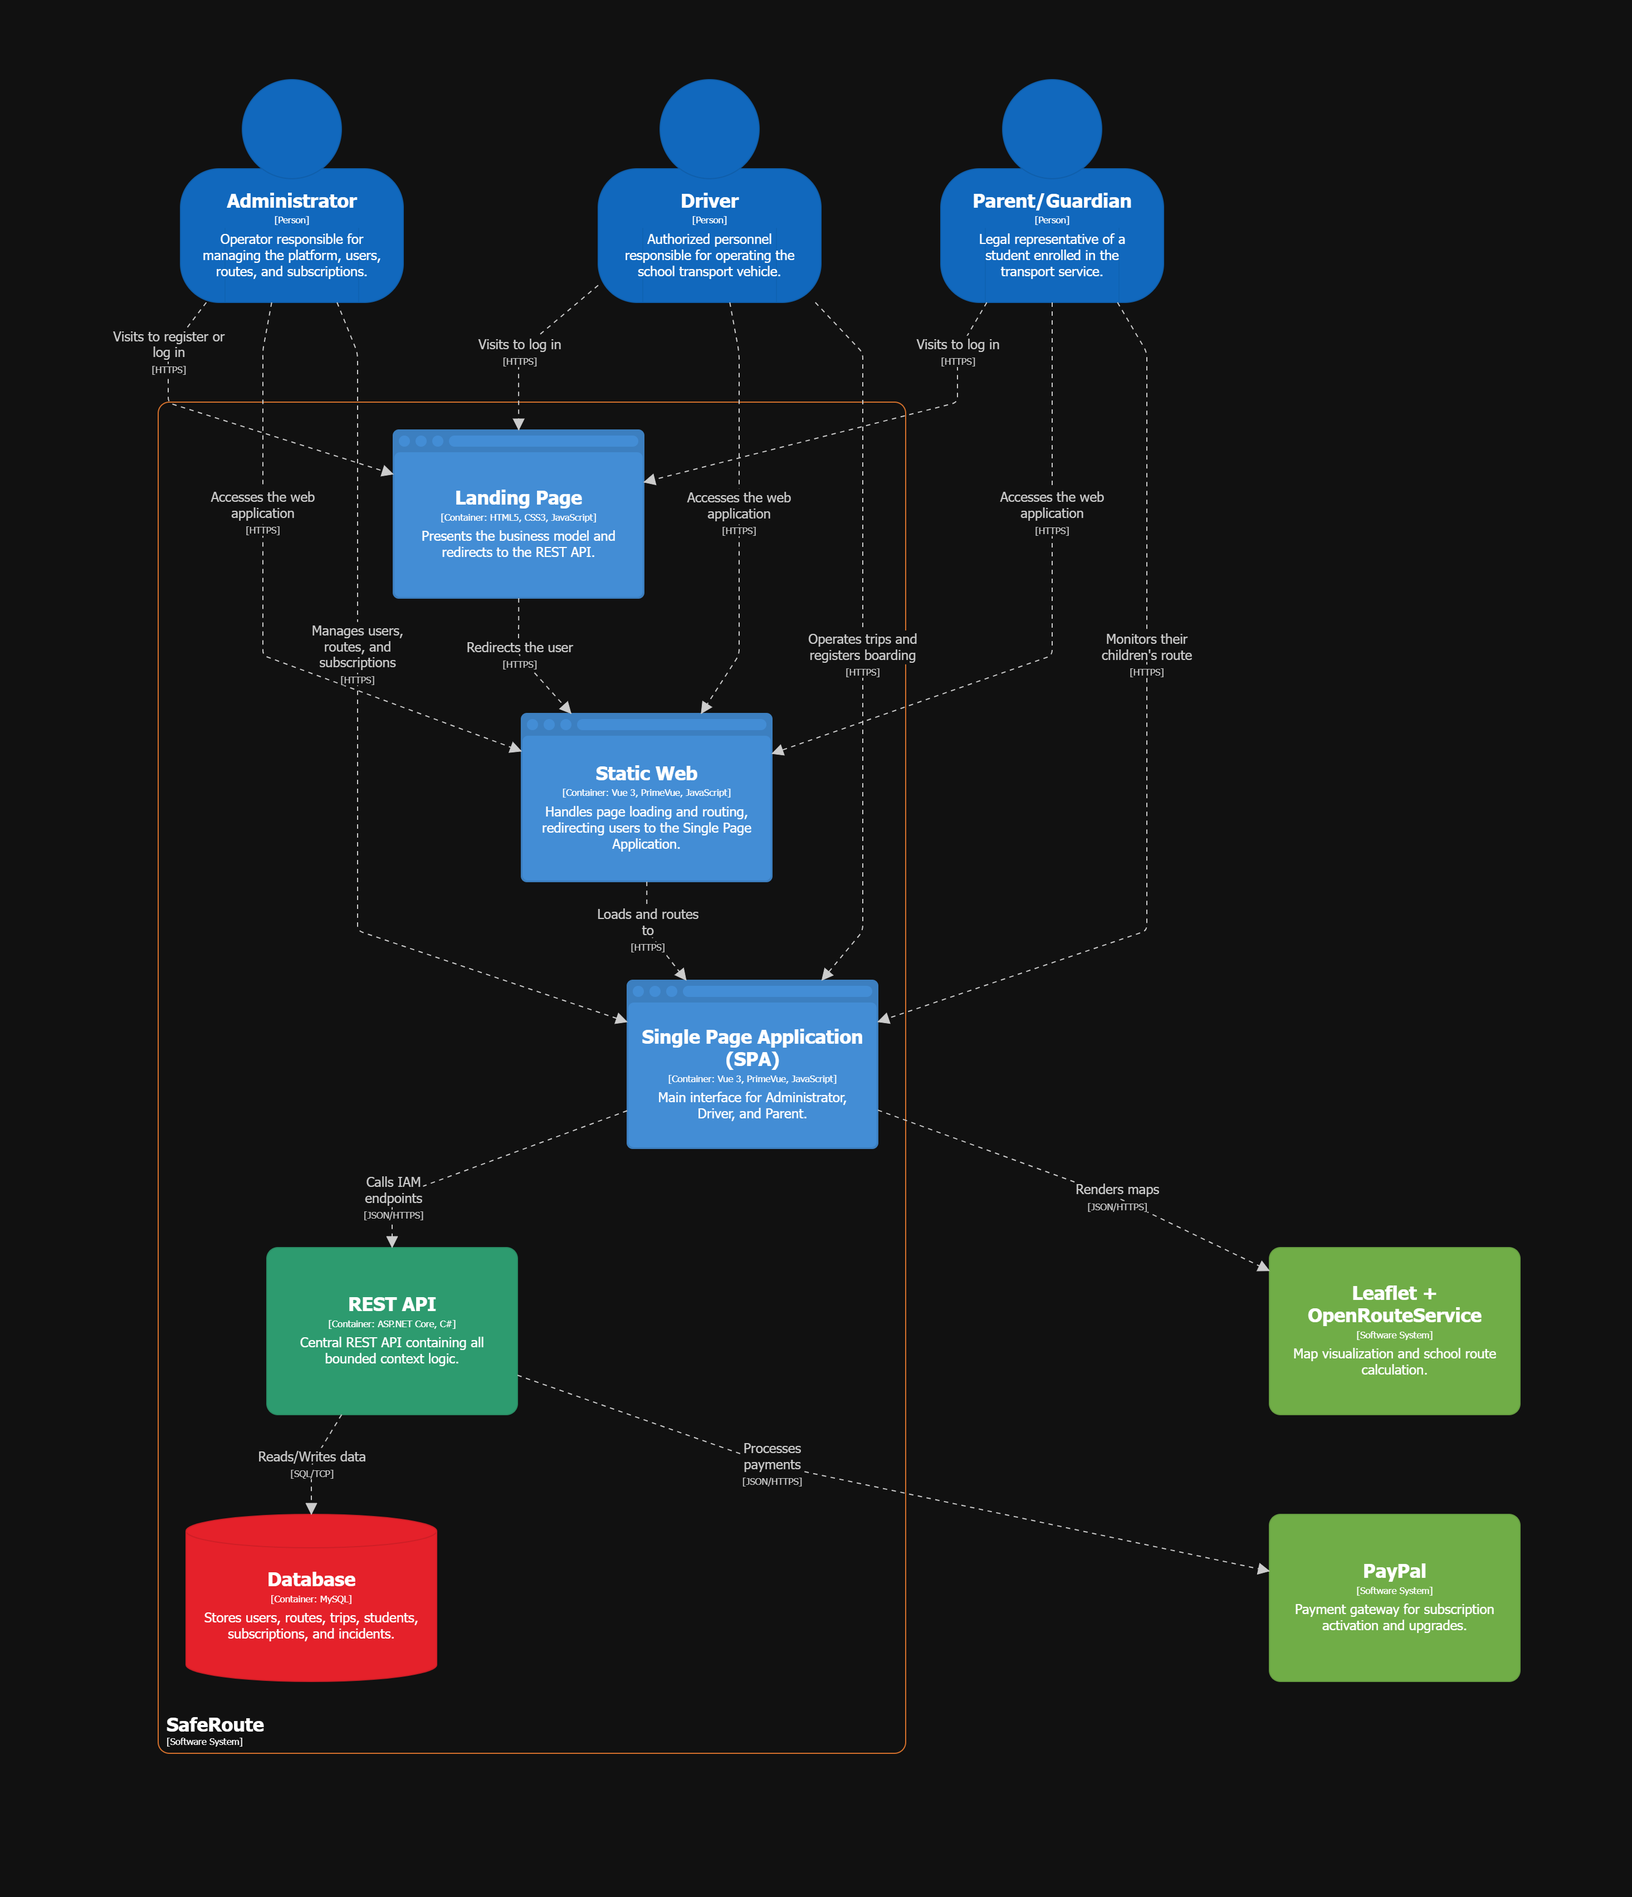
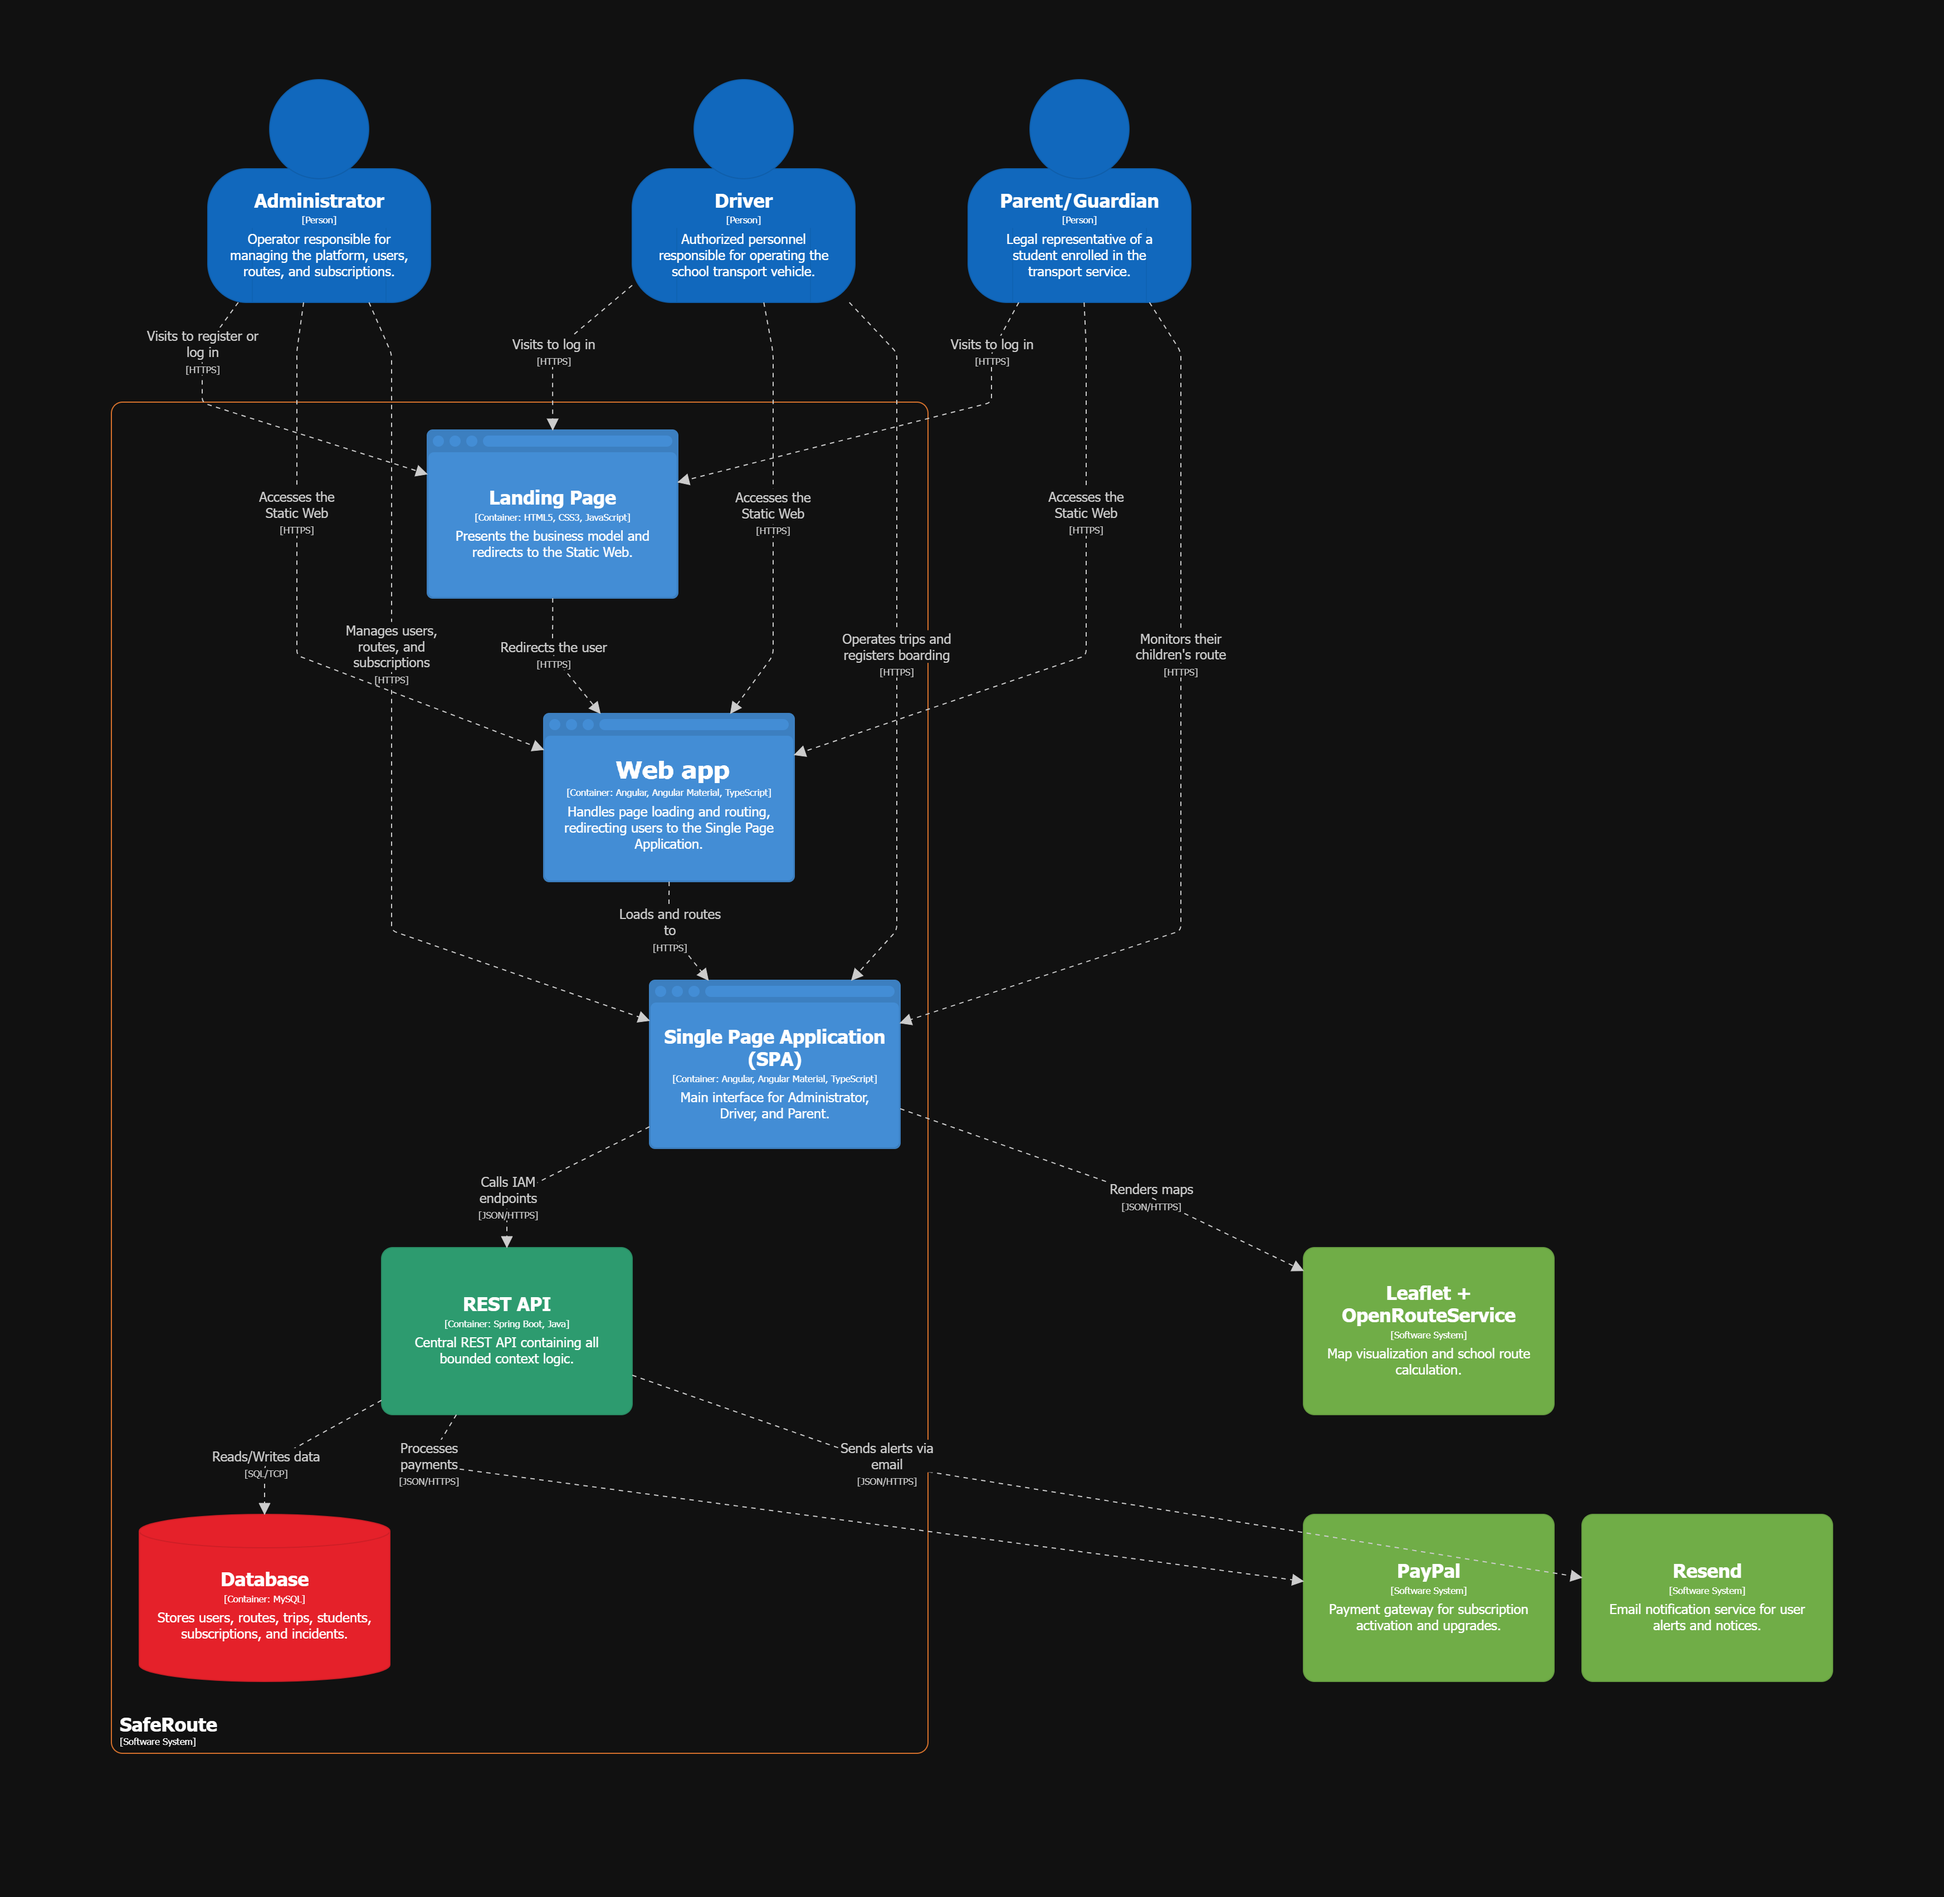
"docs: added 4.6.4. Software Architecture Components Diagrams"

diff --git a/README.md b/README.md
@@ -1435,10 +1435,109 @@ Aquí se detallan las principales unidades de despliegue del sistema. El diagram
 
 #### 4.6.4. Software Architecture Components Diagrams
 
+**FrontEnd**
+ 
+- Single Page
+
+![WebServices](assets\images\Chapter4\C4\Front\ComponentDiagram_SPA-dark.png)
+La SPA se construyó con Angular, Angular Material y TypeScript, y está organizada en módulos según el bounded context. Cada módulo mantiene la misma estructura interna de cuatro capas: Model (los resources del dominio), Assembler (transforma lo que devuelve la API), API Service (consume el backend por HttpClient) y Store (el estado reactivo, con Angular Signals). La Navigation Bar del módulo Shared se encarga de moverse entre módulos, el HTTP Service centraliza todas las llamadas REST y el Map Service gestiona la integración con Leaflet.
+ 
+- Trip Execution & Monitoring:
+
+  Muestra el núcleo operativo del frontend en sus 4 capas: la Trip View procesa la ejecución del viaje en tiempo real, el Signal Store guarda el estado de los abordajes y los incidentes activos, y el Trip Service manda cada evento al Web Service, que a su vez dispara las notificaciones que correspondan.
+  ![WebServices](./assets/images/Chapter4/C4/ComponentDiagram_Trip-dark%20(1).png)
+
+  "C:\Users\mathi\Downloads\OPEEN\kidtrack-report\assets\images\Chapter4\C4\Front\ComponentDiagram_Trip-dark (1).png"
+
+  Presentation trip:
+
+  ![WebServices](/assets/images/Chapter4/C4/ComponentPresentation/ComponentDiagram_Trip-dark(1).png)
+
+- Route Planning & Execution:
+  Detalla las 4 capas del módulo que se encarga de la logística previa al viaje en el cliente: la configuración visual de rutas y paraderos con coordenadas GPS, la asignación de vehículos y conductores y la definición de horarios, con el Route Signal Store sincronizando ese estado de configuración hacia el Web Service.
+  ![WebServices](<./assets/images/Chapter4/C4/ComponentDiagram_Route-dark%20(1).png>)
+
+  Presentation Route:
+
+  ![WebServices](<./assets/images/Chapter4/C4/ComponentPresentation/ComponentDiagram_Route-dark%20(1).png>)
+
+- Stakeholder & Asset Management:
+  Representa las 4 capas del módulo que administra, en el frontend, la información central del negocio: las vistas para crear y vincular perfiles de conductores, padres, estudiantes y vehículos, con un Signal Store que centraliza el estado de los grupos y las asignaciones por organización.
+  ![WebServices](<./assets/images/Chapter4/C4/ComponentDiagram_Stakeholder-dark%20(1).png>)
+
+  Presentation stakeholder:
+
+  ![WebServices](<./assets/images/Chapter4/C4/ComponentPresentation/ComponentDiagram_Stakeholder-dark%20(1).png>)
+  - Notifications & Communication:
+    Describe, en sus 4 capas, el módulo que comunica al sistema con el usuario: la Notifications View muestra alertas, confirmaciones de abordaje y anuncios en tiempo real, el Signal Store lleva la cuenta de lo no leído, y el Notification Service consulta periódicamente al Web Service para mantener todo actualizado.
+    ![WebServices](<./assets/images/Chapter4/C4/ComponentDiagram_Notification-dark%20(1).png>)
+
+  Presentation trip:
+
+  ![WebServices](<./assets/images/Chapter4/C4/ComponentPresentation/ComponentDiagram_Notification-dark%20(1).png>)
+
+- Shared Kernel:
+  Detalla las 4 capas transversales que sostienen a todos los módulos de bounded context en el frontend: el Navigation Bar en la capa de presentación, el HTTP Service centralizado con interceptores JWT en la capa de aplicación, los resources e interfaces base en el dominio, y el Map Service, que integra Leaflet y OpenRouteService, en la capa de infraestructura.
+  ![WebServices](./assets/images/Chapter4/C4/ComponentDiagram_Shared-dark.png)
+
+  Presentation shared:
+  ![WebServices](./assets/images/Chapter4/C4/ComponentPresentation/ComponentDiagram_Shared-dark.png)
+  - Identity & Access Management:
+    Desglosa el módulo de identidad del frontend en sus 4 capas internas: la Identity View se encarga de los formularios de login y registro, el Signal Store guarda el estado de sesión y el rol del usuario activo, y el IAM Service envía las peticiones de autenticación al Web Service, adjuntando y guardando el token JWT.
+    ![WebServices](</assets/images/Chapter4/C4/ComponentDiagram_IAM-dark%20(1).png>)
+
+  Presentation IAM:
+
+  ![WebServices](<./assets/images/Chapter4/C4/ComponentPresentation/ComponentDiagram_IAM-dark%20(1).png>)
+
+- Subscription & Plan Management:
+  Muestra la arquitectura interna de 4 capas del módulo que maneja la monetización en el cliente: la Subscriptions View presenta los planes disponibles, el Signal Store mantiene el estado del plan activo y sus cuotas, y el Subscription Service se comunica con el Web Service para manejar todo el ciclo de vida del pago.
+  ![WebServices](<./assets/images/Chapter4/C4/ComponentDiagram_Subscription-dark%20(1).png>)
+
+  Presentation subscription:
+
+  ![WebServices](<./assets/images/Chapter4/C4/ComponentPresentation/ComponentDiagram_Subscription-dark%20(1).png>)
+
+**BackEnd**
+ 
+- Web Services:
+  ![WebServices](./assets/images/Chapter4/C4/WebServiceComponents-dark.png)
+  Este diagrama da la vista general del backend: muestra cómo el monolito de Spring Boot está organizado, a nivel lógico, en seis Bounded Contexts independientes más un Shared Kernel (el núcleo compartido de Value Objects), lo que deja bien separadas las responsabilidades de cada dominio.
+
+- Trip Execution & Monitoring:
+  Muestra el núcleo operativo del sistema en sus 4 capas: cómo se procesa la lógica en tiempo real durante el viaje, el registro del abordaje de cada estudiante, el log de incidentes y la emisión de los eventos de dominio internos que activan el contexto de Notificaciones.
+  ![WebServices](./assets/images/Chapter4/C4/ComponentDiagram_Trip-dark.png)
+
+- Route Planning & Execution:
+  Detalla la arquitectura modular (Controller, Service, Domain, Repository) que se encarga de la logística previa al viaje: la definición de paraderos con coordenadas GPS de alta precisión, la asignación de vehículos y conductores, y la configuración de horarios y días de servicio de cada ruta.
+  ![WebServices](./assets/images/Chapter4/C4/ComponentDiagram_Route-dark.png)
+
+- Stakeholder & Asset Management:
+  Representa las capas internas del dominio que administra la información central del negocio: crear y vincular los perfiles de conductores, padres y estudiantes, y gestionar la flota de vehículos disponible por organización.
+  ![WebServices](./assets/images/Chapter4/C4/ComponentDiagram_Stakeholder-dark.png)
+
+- Notifications & Communication:
+  Describe el módulo de comunicación asíncrona en sus 4 capas: recibe los eventos internos que emite el contexto de Trip y usa su capa de infraestructura para enviar, a través de Resend, las alertas de pánico, las notificaciones de abordaje y los comunicados de difusión general.
+  ![WebServices](./assets/images/Chapter4/C4/ComponentDiagram_Notification-dark.png)
+
+- Shared Kernel:
+  Este diagrama muestra las 4 capas transversales (Building Blocks) sobre las que se apoya la arquitectura limpia del monolito: los Middlewares en la capa API, las interfaces y resources base en Application, los Value Objects globales (TripId, StudentId) en Domain, y los repositorios genéricos en Infrastructure, todo pensado para no duplicar código en el resto de los Bounded Contexts.
+  ![WebServices](<./assets/images/Chapter4/C4/ComponentDiagram_Shared-dark%20(1).png>)
+
+  - Identity & Access Management:
+    Desglosa el módulo de identidad en sus 4 capas internas (API, Application, Domain, Infrastructure): cómo se maneja la autenticación de usuarios, la creación de cuentas y la asignación de roles de forma aislada, con Spring Security encargándose de emitir los tokens JWT en la capa de infraestructura.
+    ![WebServices](./assets/images/Chapter4/C4/ComponentDiagram_IAM-dark.png)
+
+- Subscription & Plan Management:
+  Muestra la estructura interna de 4 capas del contexto de monetización: el flujo va desde el controlador REST hasta la infraestructura que se integra con PayPal para manejar el ciclo de vida de los planes y los pagos de suscripción.
+  ![WebServices](./assets/images/Chapter4/C4/ComponentDiagram_Subscription-dark.png)
+
 ### 4.7. Software Object-Oriented Design
+
 #### 4.7.1. Class Diagrams
 
 ### 4.8. Database Design
+
 #### 4.8.1. Database Diagrams
 
 ## Capítulo V: Product Implementation, Validation & Deployment
